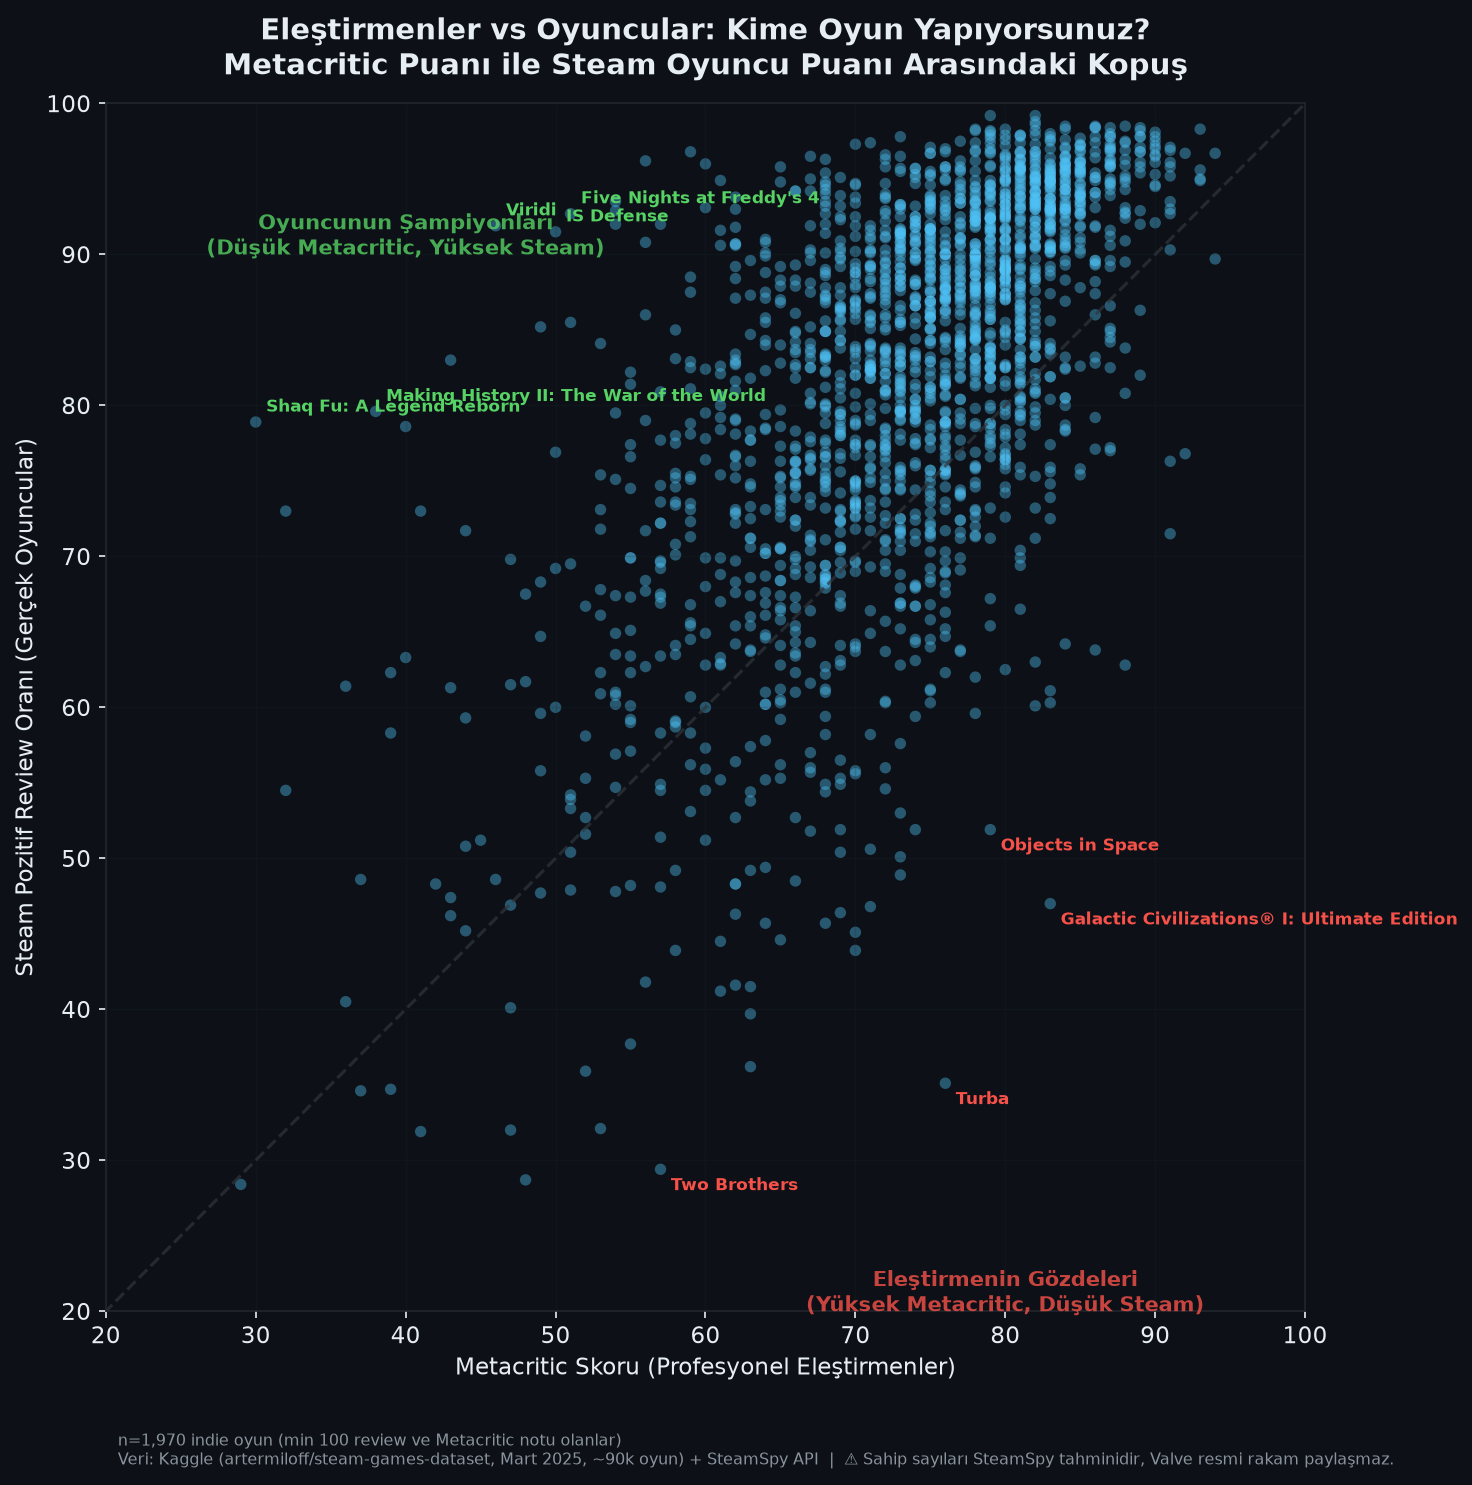
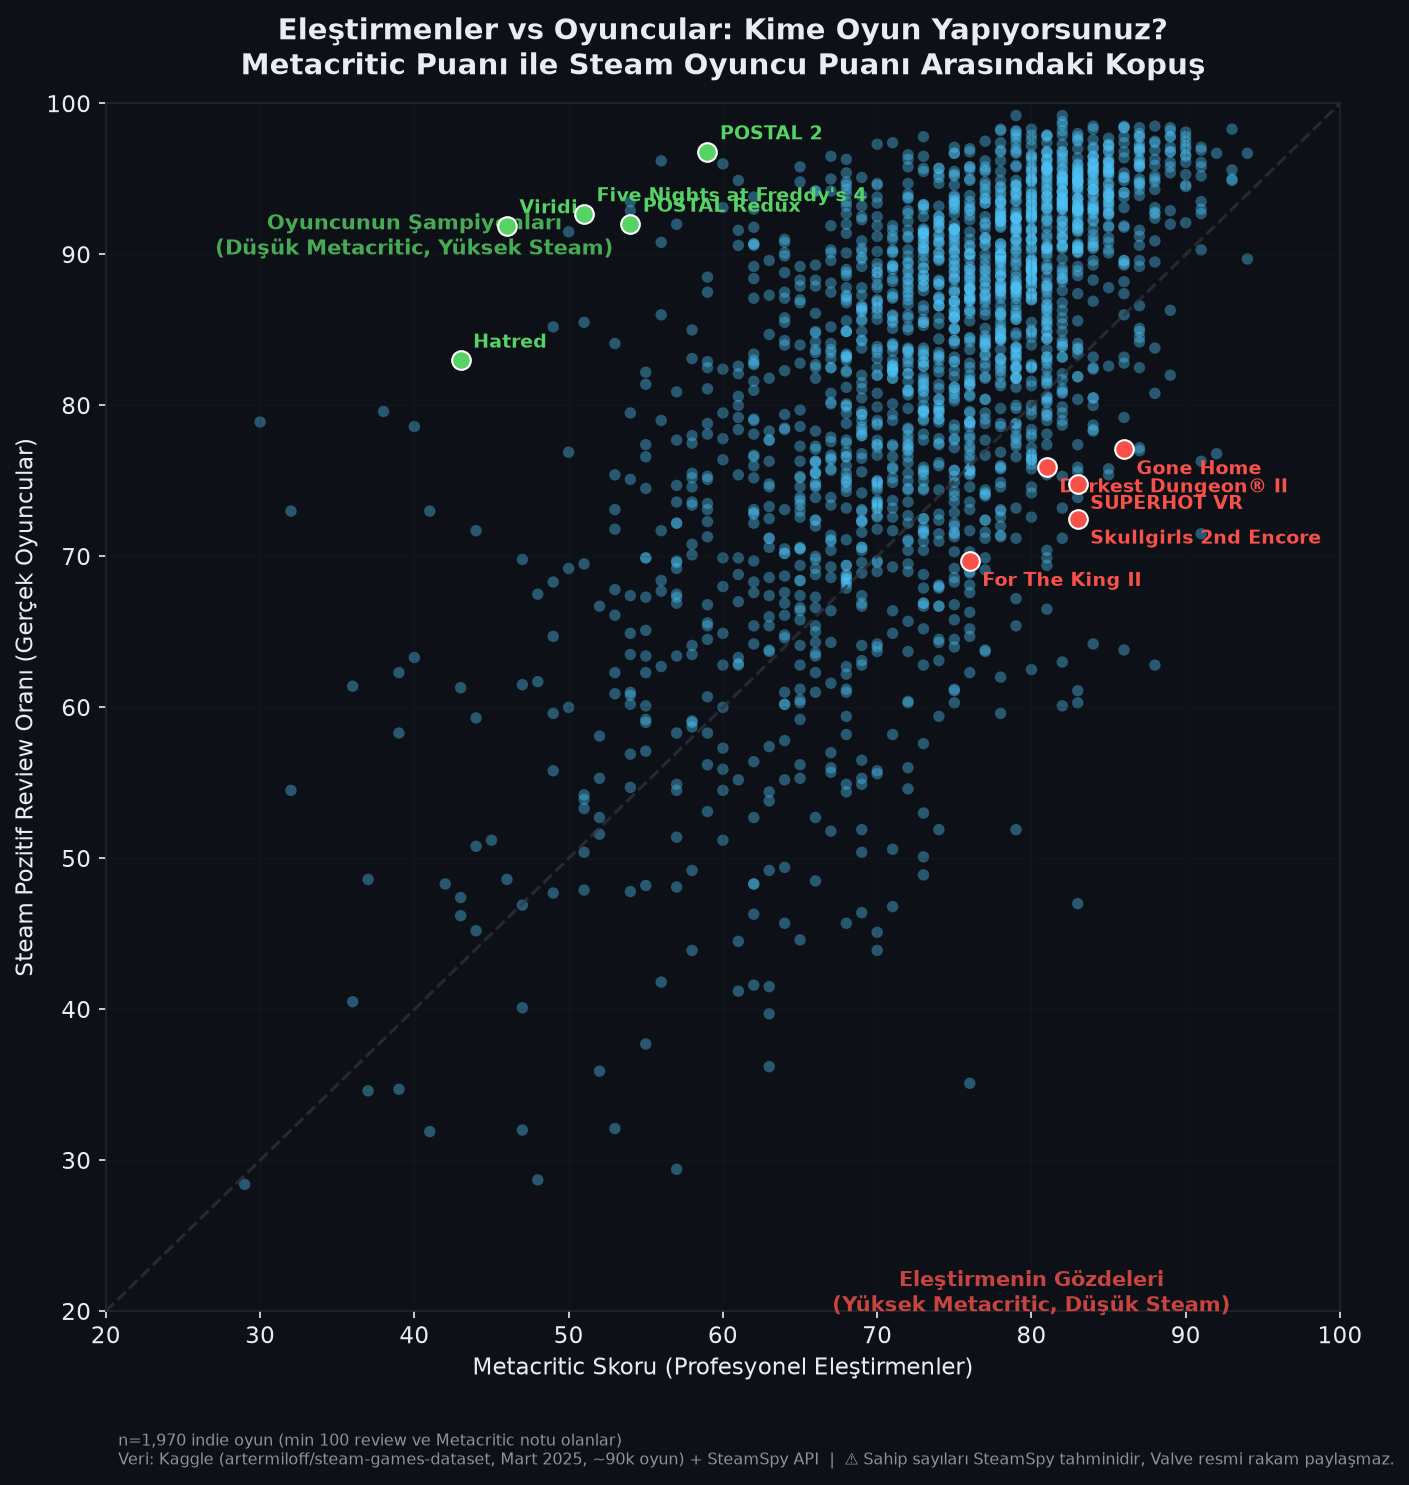
style: updated Critics vs Players chart to highlight popular games as examples

diff --git a/src/visualizer.py b/src/visualizer.py
@@ -466,21 +466,32 @@ def chart_critics_vs_players(df):
     # y = x çizgisi
     ax.plot([0, 100], [0, 100], color=C["gray"], linestyle="--", linewidth=1.5, alpha=0.7)
     
-    # En uç örnekleri isimlendir (Oyuncu dostu ve Eleştirmen dostu)
-    player_champs = sub.nlargest(5, "disconnect")
-    critic_darlings = sub.nsmallest(5, "disconnect")
+    # En uç (ve popüler) örnekleri bul (min 5000 review olsun ki bilindik oyunlar çıksın)
+    popular_sub = sub[sub["total_reviews"] >= 5000]
+    if popular_sub.empty:
+        popular_sub = sub # fallback
+        
+    player_champs = popular_sub.nlargest(5, "disconnect")
+    critic_darlings = popular_sub.nsmallest(5, "disconnect")
+    
+    # Noktaları farklı renk ve boyutta belirginleştir
+    ax.scatter(player_champs["metacritic_score"], player_champs["review_score"], 
+               color=C["green"], edgecolor="white", s=80, zorder=5)
+               
+    ax.scatter(critic_darlings["metacritic_score"], critic_darlings["review_score"], 
+               color=C["red"], edgecolor="white", s=80, zorder=5)
     
     for _, row in player_champs.iterrows():
         ax.annotate(row["name"], 
                     (row["metacritic_score"], row["review_score"]),
-                    xytext=(5, 5), textcoords="offset points",
-                    fontsize=8, color=C["green"], fontweight="bold")
+                    xytext=(6, 6), textcoords="offset points",
+                    fontsize=9, color=C["green"], fontweight="bold")
                     
     for _, row in critic_darlings.iterrows():
         ax.annotate(row["name"], 
                     (row["metacritic_score"], row["review_score"]),
-                    xytext=(5, -10), textcoords="offset points",
-                    fontsize=8, color=C["red"], fontweight="bold")
+                    xytext=(6, -12), textcoords="offset points",
+                    fontsize=9, color=C["red"], fontweight="bold")
 
     ax.text(80, 20, "Eleştirmenin Gözdeleri\n(Yüksek Metacritic, Düşük Steam)", 
             color=C["red"], fontsize=10, ha="center", alpha=0.8, fontweight="bold")

diff --git a/src/insight_engine.py b/src/insight_engine.py
@@ -571,8 +571,13 @@ def insight_critics_vs_players(df: pd.DataFrame) -> dict:
         
     sub["disconnect"] = sub["review_score"] - sub["metacritic_score"]
     
-    player_champ = sub.loc[sub["disconnect"].idxmax()]
-    critic_darling = sub.loc[sub["disconnect"].idxmin()]
+    # Senaryo için bilindik (popüler) oyunları seçelim
+    popular_sub = sub[sub["total_reviews"] >= 5000]
+    if popular_sub.empty:
+        popular_sub = sub
+        
+    player_champ = popular_sub.loc[popular_sub["disconnect"].idxmax()]
+    critic_darling = popular_sub.loc[popular_sub["disconnect"].idxmin()]
     
     yorum = (
         f"{len(sub)} adet Metacritic notu olan indie oyun incelendi. "

diff --git a/outputs/insights/weekly_report.md b/outputs/insights/weekly_report.md
@@ -1,5 +1,5 @@
 # Steam Indie Pazar Zekası Raporu
-**Üretildi:** 25 July 2026, 15:29  |  **Veri:** Kaggle steam-games-dataset (march2025)  |  **Uyarı:** SteamSpy verileri tahminidir, Valve resmi rakam paylaşmaz.
+**Üretildi:** 25 July 2026, 15:33  |  **Veri:** Kaggle steam-games-dataset (march2025)  |  **Uyarı:** SteamSpy verileri tahminidir, Valve resmi rakam paylaşmaz.
 
 ---
 
@@ -150,7 +150,7 @@ Sizce neden 'Visual Novel + FPS' bu kadar iyi çalışıyor? Yorumlarda tartış
 ## 6. Eleştirmenler vs Oyuncular: Kime Oyun Yapıyorsunuz?
 
 **📊 Analitik Yorum**
-1970 adet Metacritic notu olan indie oyun incelendi. Oyuncuların en çok sevip eleştirmenlerin gömdüğü oyun: Shaq Fu: A Legend Reborn (Metacritic: 30, Steam: %78.9). Eleştirmenlerin bayılıp oyuncuların nefret ettiği oyun: Turba (Metacritic: 76, Steam: %35.1).
+1970 adet Metacritic notu olan indie oyun incelendi. Oyuncuların en çok sevip eleştirmenlerin gömdüğü oyun: Viridi (Metacritic: 46, Steam: %91.9). Eleştirmenlerin bayılıp oyuncuların nefret ettiği oyun: Skullgirls 2nd Encore (Metacritic: 83, Steam: %72.5).
 
 **🎣 Video Hook (İlk 3 Saniye)**
 > Oyununuzu kime beğendirmeye çalışıyorsunuz? Eleştirmenlere mi, yoksa cüzdanıyla oy veren oyunculara mı? Steam verilerine göre ikisini birden mutlu etmek neredeyse imkansız.
@@ -161,10 +161,10 @@ Sizce neden 'Visual Novel + FPS' bu kadar iyi çalışıyor? Yorumlarda tartış
 Eğer Metacritic'ten 90 puan aldıysanız, Steam'de kesin başarılı olur musunuz? Veriler tam tersini söylüyor!
 
 [VERİ - 0:05-0:25]
-Steam'de hem Metacritic notu hem de yeterince oyuncu yorumu olan 1970 indie oyunu inceledim. Sonuç inanılmaz bir 'Kopuş' (Disconnect). Örneğin 'Turba'... Eleştirmenler oyuna aşık olmuş ve 76 basmış. Ama oyuncular? Steam'de %35.1 ile oyunu gömmüşler.
+Steam'de hem Metacritic notu hem de yeterince oyuncu yorumu olan 1970 indie oyunu inceledim. Sonuç inanılmaz bir 'Kopuş' (Disconnect). Örneğin 'Skullgirls 2nd Encore'... Eleştirmenler oyuna aşık olmuş ve 83 basmış. Ama oyuncular? Steam'de %72.5 ile oyunu gömmüşler.
 
 [ANALİZ - 0:25-0:45]
-Tam tersine de bakalım: 'Shaq Fu: A Legend Reborn'. Eleştirmenler 30 vermiş, yani 'eh işte' demişler. Ama oyuncular %78.9 olumlu yorumla oyunu şampiyon yapmış. Neden? Çünkü eleştirmenler 'teknik kusursuzluk ve inovasyon' ararken, oyuncular sadece 'eğlence ve parasının karşılığını' arıyor.
+Tam tersine de bakalım: 'Viridi'. Eleştirmenler 46 vermiş, yani 'eh işte' demişler. Ama oyuncular %91.9 olumlu yorumla oyunu şampiyon yapmış. Neden? Çünkü eleştirmenler 'teknik kusursuzluk ve inovasyon' ararken, oyuncular sadece 'eğlence ve parasının karşılığını' arıyor.
 
 [CTA - 0:45-1:00]
 Eğer indie geliştiriciyseniz sormanız gereken tek soru var: Oyununuzu kime yapıyorsunuz? IGN'e mi, oyunculara mı?
